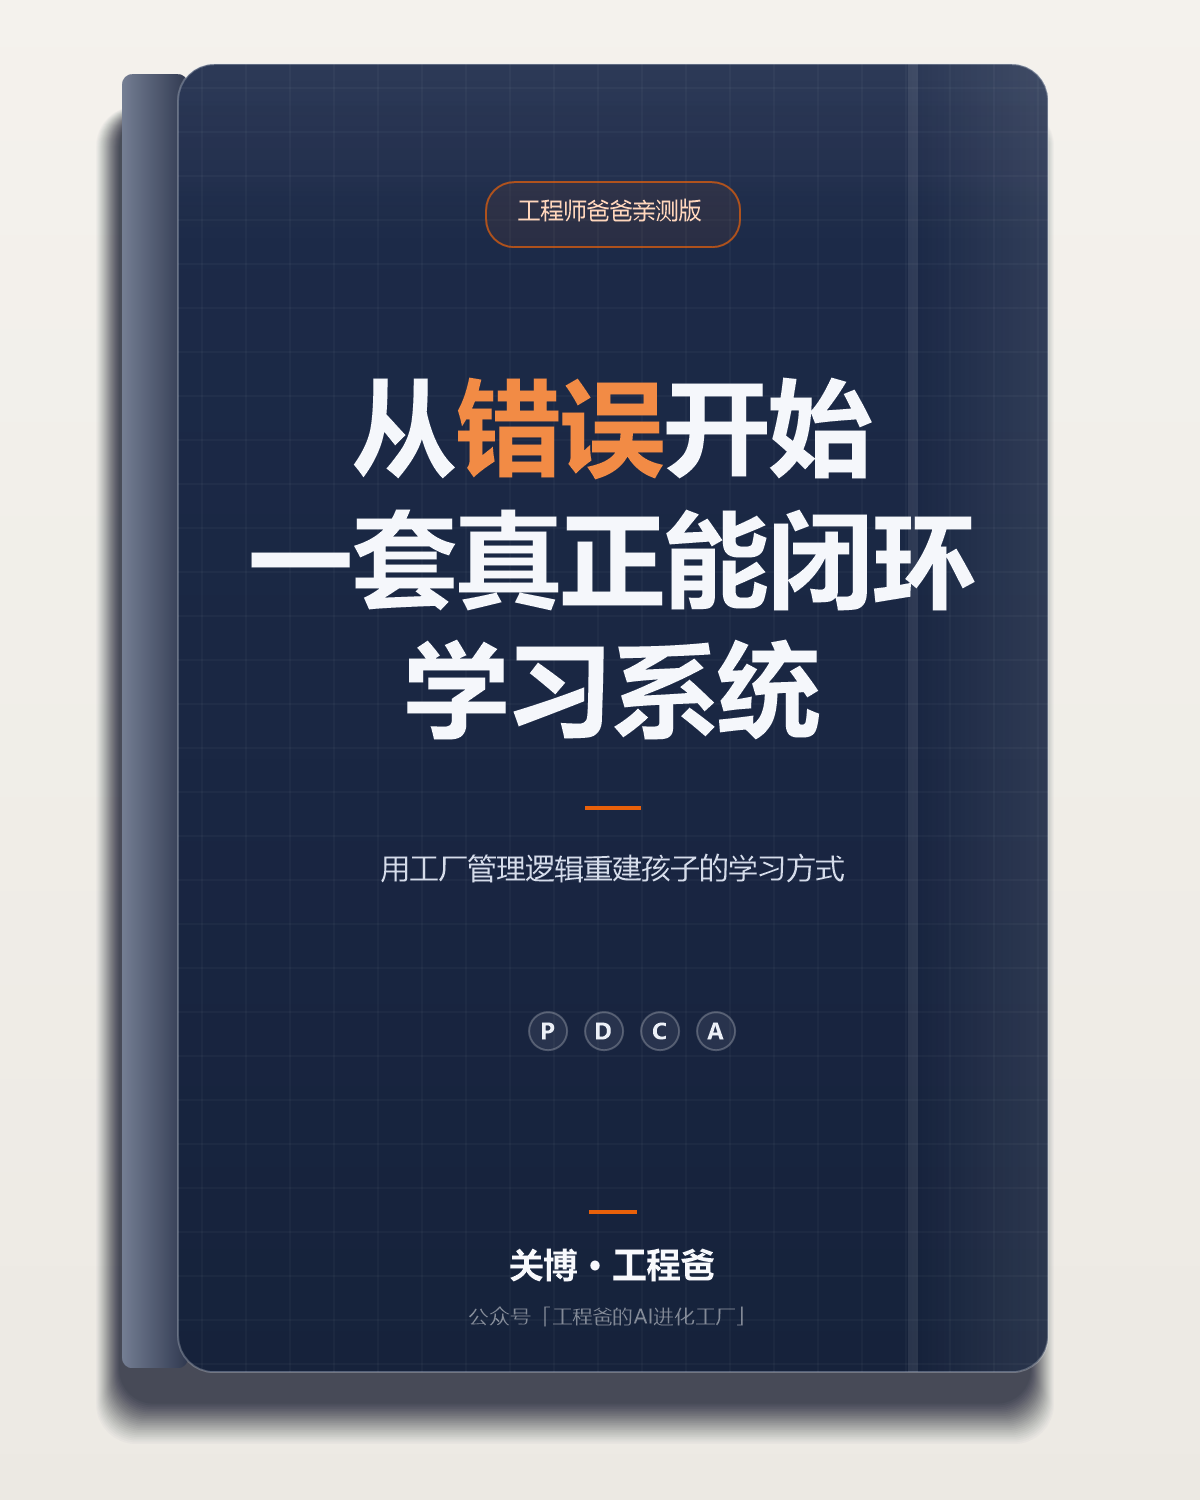
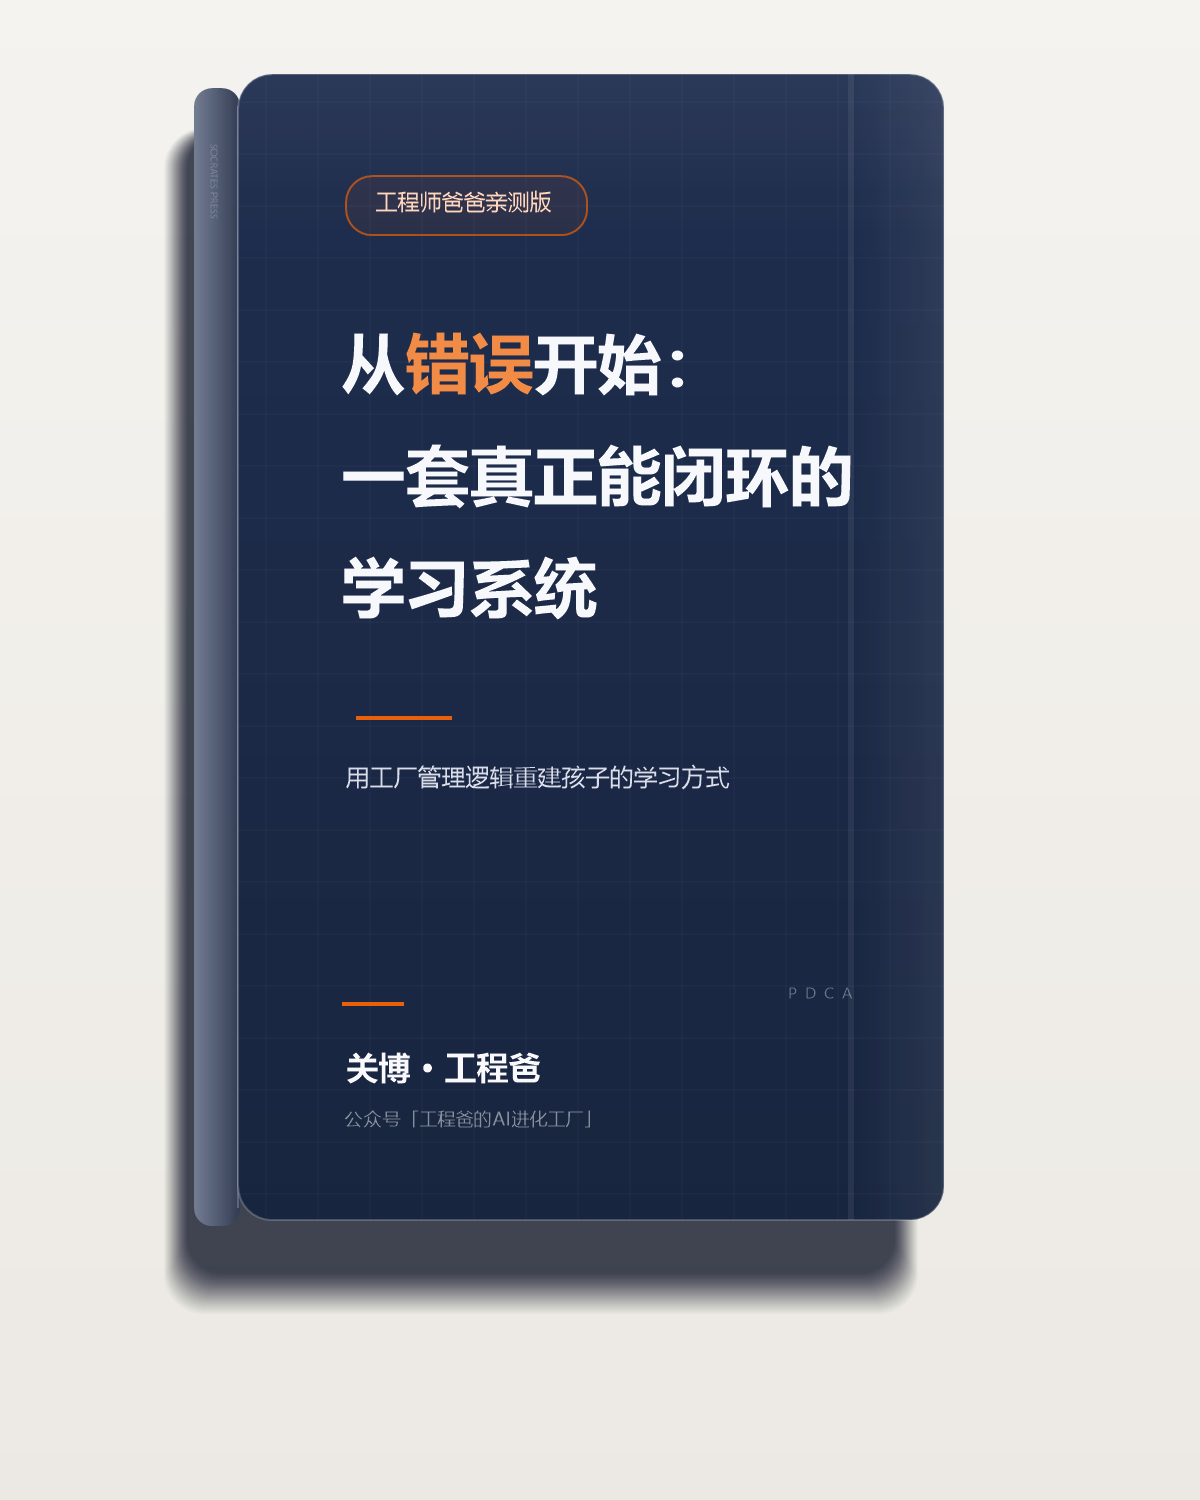
Refine book cover layout

diff --git a/apps/landing/components/BookCoverMockup.tsx b/apps/landing/components/BookCoverMockup.tsx
@@ -1,4 +1,4 @@
-'use client';
+'use client';
 
 type BookCoverMockupProps = {
   className?: string;
@@ -23,66 +23,63 @@ export default function BookCoverMockup({
   return (
     <div className={`relative aspect-[2/3] ${className}`}>
       <div className={`absolute inset-0 transition-transform duration-500 ${rotateClassName}`.trim()}>
-        <div className="absolute inset-x-[10%] bottom-[-2%] top-[5%] rounded-[40px] bg-[#0d1426]/22 blur-2xl" />
+        <div className="absolute inset-x-[13%] bottom-[-1.5%] top-[6%] rounded-[40px] bg-[#0d1426]/20 blur-2xl" />
 
-        <div className="absolute bottom-[1.4%] left-[1.5%] top-[1.4%] w-[10%] rounded-l-[26px] bg-gradient-to-b from-[#6f7d96] via-[#495671] to-[#2f3850] shadow-[inset_-2px_0_0_rgba(255,255,255,0.15),inset_1px_0_0_rgba(17,24,39,0.35)]">
+        <div className="absolute bottom-[1.4%] left-[2.8%] top-[1.4%] w-[7.4%] rounded-l-[22px] bg-gradient-to-b from-[#6f7d96] via-[#4a5873] to-[#313a53] shadow-[inset_-1px_0_0_rgba(255,255,255,0.1),inset_1px_0_0_rgba(17,24,39,0.22)]">
           <div
-            className="absolute inset-y-[8%] left-[28%] text-[9px] tracking-[0.3em] text-white/35"
+            className="absolute inset-y-[8%] left-[37%] text-[7px] tracking-[0.24em] text-white/24"
             style={{ writingMode: 'vertical-rl' }}
           >
             SOCRATES PRESS
           </div>
         </div>
 
-        <div className="absolute inset-y-0 left-[9%] right-0 overflow-hidden rounded-[0_30px_30px_10px] border border-[#d7dce6]/35 bg-[#1a2744] shadow-[0_22px_48px_rgba(17,24,39,0.28),inset_0_1px_0_rgba(255,255,255,0.08)]">
+        <div className="absolute inset-y-0 left-[7.5%] right-0 overflow-hidden rounded-[0_26px_26px_10px] border border-[#d7dce6]/24 bg-[#1a2744] shadow-[0_22px_48px_rgba(17,24,39,0.26),inset_0_1px_0_rgba(255,255,255,0.07)]">
           <div
-            className="absolute inset-0 opacity-[0.14]"
+            className="absolute inset-0 opacity-[0.05]"
             style={{
               backgroundImage:
-                'repeating-linear-gradient(0deg, transparent, transparent 42px, rgba(255,255,255,0.18) 42px, rgba(255,255,255,0.18) 43px), repeating-linear-gradient(90deg, transparent, transparent 42px, rgba(255,255,255,0.18) 42px, rgba(255,255,255,0.18) 43px)',
+                'repeating-linear-gradient(0deg, transparent, transparent 54px, rgba(255,255,255,0.12) 54px, rgba(255,255,255,0.12) 55px), repeating-linear-gradient(90deg, transparent, transparent 54px, rgba(255,255,255,0.12) 54px, rgba(255,255,255,0.12) 55px)',
             }}
           />
-          <div className="absolute inset-y-0 right-0 w-[14%] bg-gradient-to-l from-white/10 via-white/3 to-transparent" />
-          <div className="absolute inset-x-0 top-0 h-[18%] bg-gradient-to-b from-white/7 to-transparent" />
+          <div className="absolute inset-y-0 right-0 w-[10%] bg-gradient-to-l from-white/7 via-white/2 to-transparent" />
+          <div className="absolute inset-x-0 top-0 h-[16%] bg-gradient-to-b from-white/5 to-transparent" />
 
-          <div className="relative flex h-full flex-col items-center justify-between px-[10%] py-[9%] text-center text-white">
+          <div className="relative flex h-full flex-col justify-between px-[12%] py-[10.5%] text-white">
             <div className="w-full">
-              <div className="mx-auto mb-[10%] inline-flex rounded-full border border-[#e8600a]/70 px-4 py-1.5 text-[10px] font-medium tracking-[0.22em] text-[#ffd1b4]">
+              <div className="mb-[18%] inline-flex rounded-full border border-[#e8600a]/65 px-4 py-1.5 text-[9px] font-medium tracking-[0.16em] text-[#ffd1b4]">
                 {COVER_TAG}
               </div>
 
-              <h3 className="font-serif text-[clamp(1.7rem,5vw,3rem)] font-semibold leading-[1.16] tracking-[-0.03em] text-white">
-                <span>{TITLE_LINE_1_PREFIX}</span>
-                <span className="text-[#f28b45]">{TITLE_LINE_1_HIGHLIGHT}</span>
-                <span>{TITLE_LINE_1_SUFFIX}</span>
+              <h3 className="max-w-[82%] font-serif text-[clamp(1.42rem,3.85vw,2.18rem)] font-semibold leading-[1.28] tracking-[-0.04em] text-white">
+                <span className="inline-block">{TITLE_LINE_1_PREFIX}</span>
+                <span className="inline-block text-[#f28b45]">{TITLE_LINE_1_HIGHLIGHT}</span>
+                <span className="inline-block">{TITLE_LINE_1_SUFFIX}</span>
+                <span className="inline-block align-top text-[0.82em] text-white/82">{':'}</span>
                 <br />
                 <span>{TITLE_LINE_2}</span>
                 <br />
                 <span>{TITLE_LINE_3}</span>
               </h3>
 
-              <div className="mx-auto mt-[9%] h-[2px] w-12 bg-[#e8600a]" />
+              <div className="mt-[12%] h-[2px] w-12 bg-[#e8600a]" />
 
-              <p className="mx-auto mt-[7%] max-w-[82%] text-[0.78rem] leading-[1.7] text-[#d3dae9]">
+              <p className="mt-[8.5%] max-w-[68%] font-sans text-[0.68rem] leading-[1.8] text-[#d3dae9]">
                 {SUBTITLE}
               </p>
-
-              <div className="mt-[9%] flex items-center justify-center gap-2">
-                {FLOW_STEPS.map((step) => (
-                  <span
-                    key={step}
-                    className="inline-flex h-8 w-8 items-center justify-center rounded-full border border-white/18 bg-white/6 text-[0.72rem] font-semibold tracking-[0.04em] text-white/88"
-                  >
-                    {step}
-                  </span>
-                ))}
-              </div>
             </div>
 
             <div className="w-full">
-              <div className="mx-auto mb-5 h-[2px] w-10 bg-[#e8600a]" />
-              <p className="font-sans text-[0.95rem] font-semibold tracking-[0.08em] text-white">{AUTHOR}</p>
-              <p className="mt-2 font-sans text-[0.72rem] tracking-[0.08em] text-white/52">{AUTHOR_NOTE}</p>
+              <div className="mb-6 flex items-center justify-between gap-3">
+                <div className="h-[2px] w-10 bg-[#e8600a]" />
+                <div className="flex items-center gap-2 text-[0.52rem] tracking-[0.32em] text-white/38">
+                  {FLOW_STEPS.map((step) => (
+                    <span key={step}>{step}</span>
+                  ))}
+                </div>
+              </div>
+              <p className="font-sans text-[0.9rem] font-semibold tracking-[0.03em] text-white">{AUTHOR}</p>
+              <p className="mt-2 font-sans text-[0.66rem] tracking-[0.03em] text-white/50">{AUTHOR_NOTE}</p>
             </div>
           </div>
         </div>
